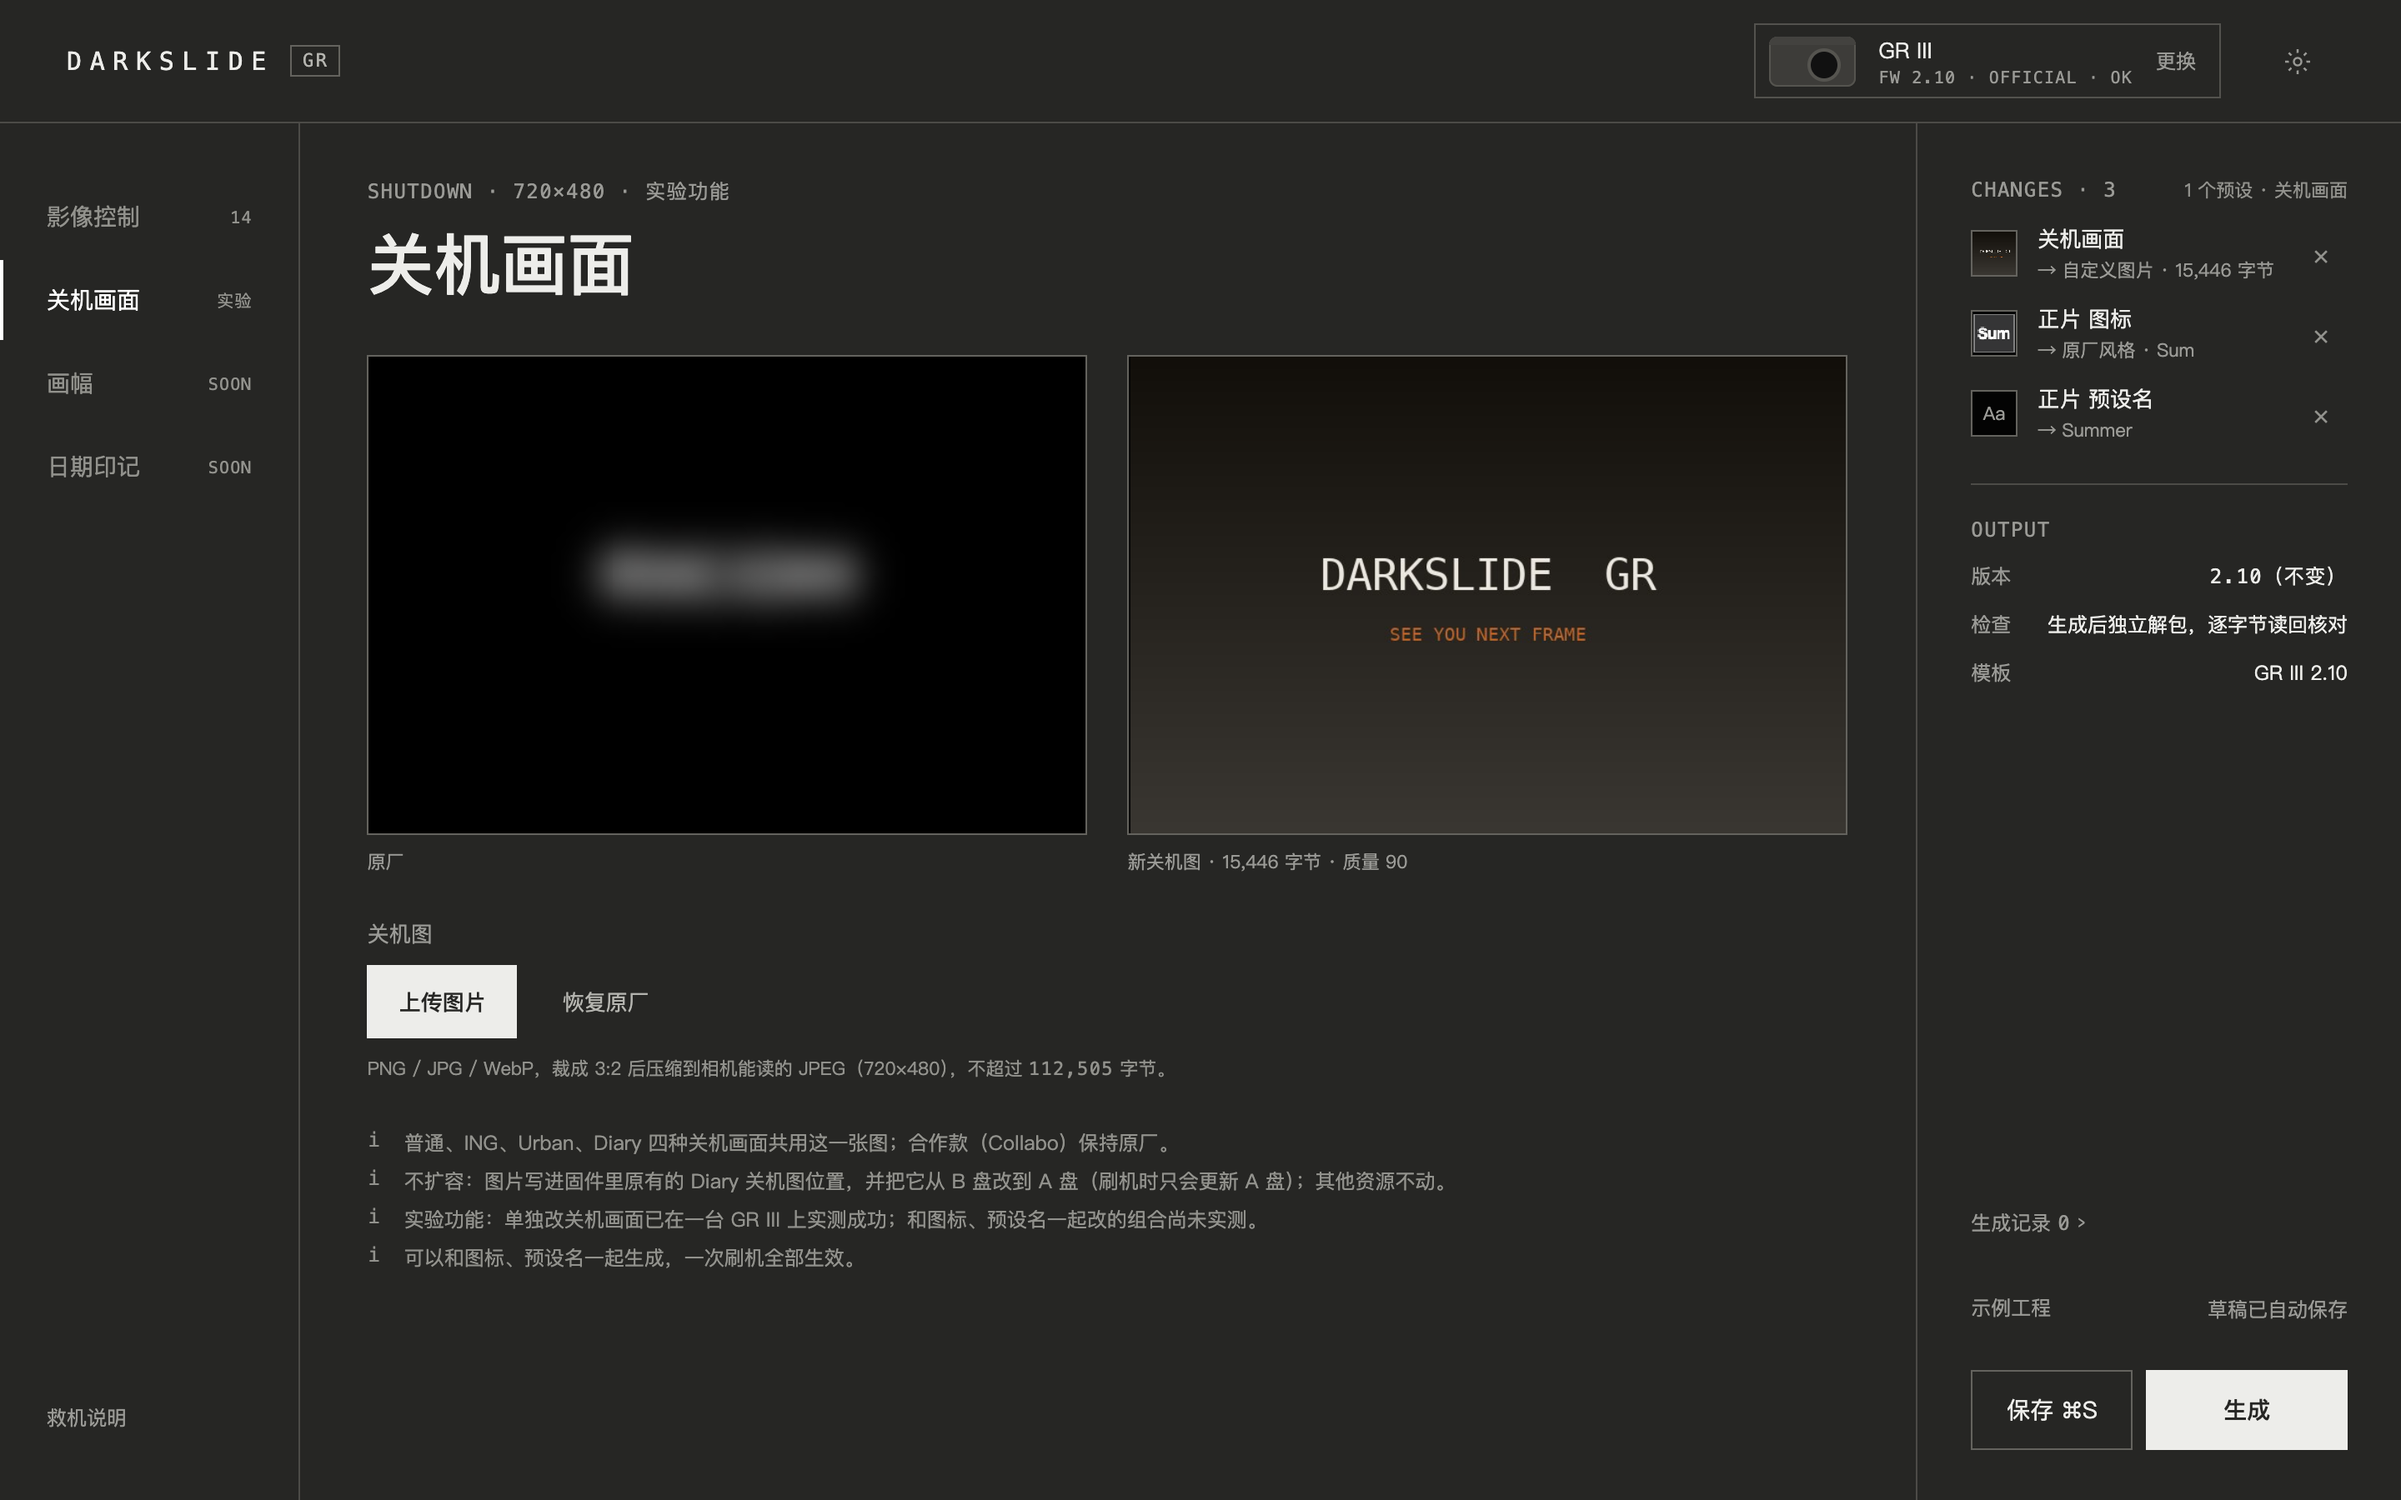
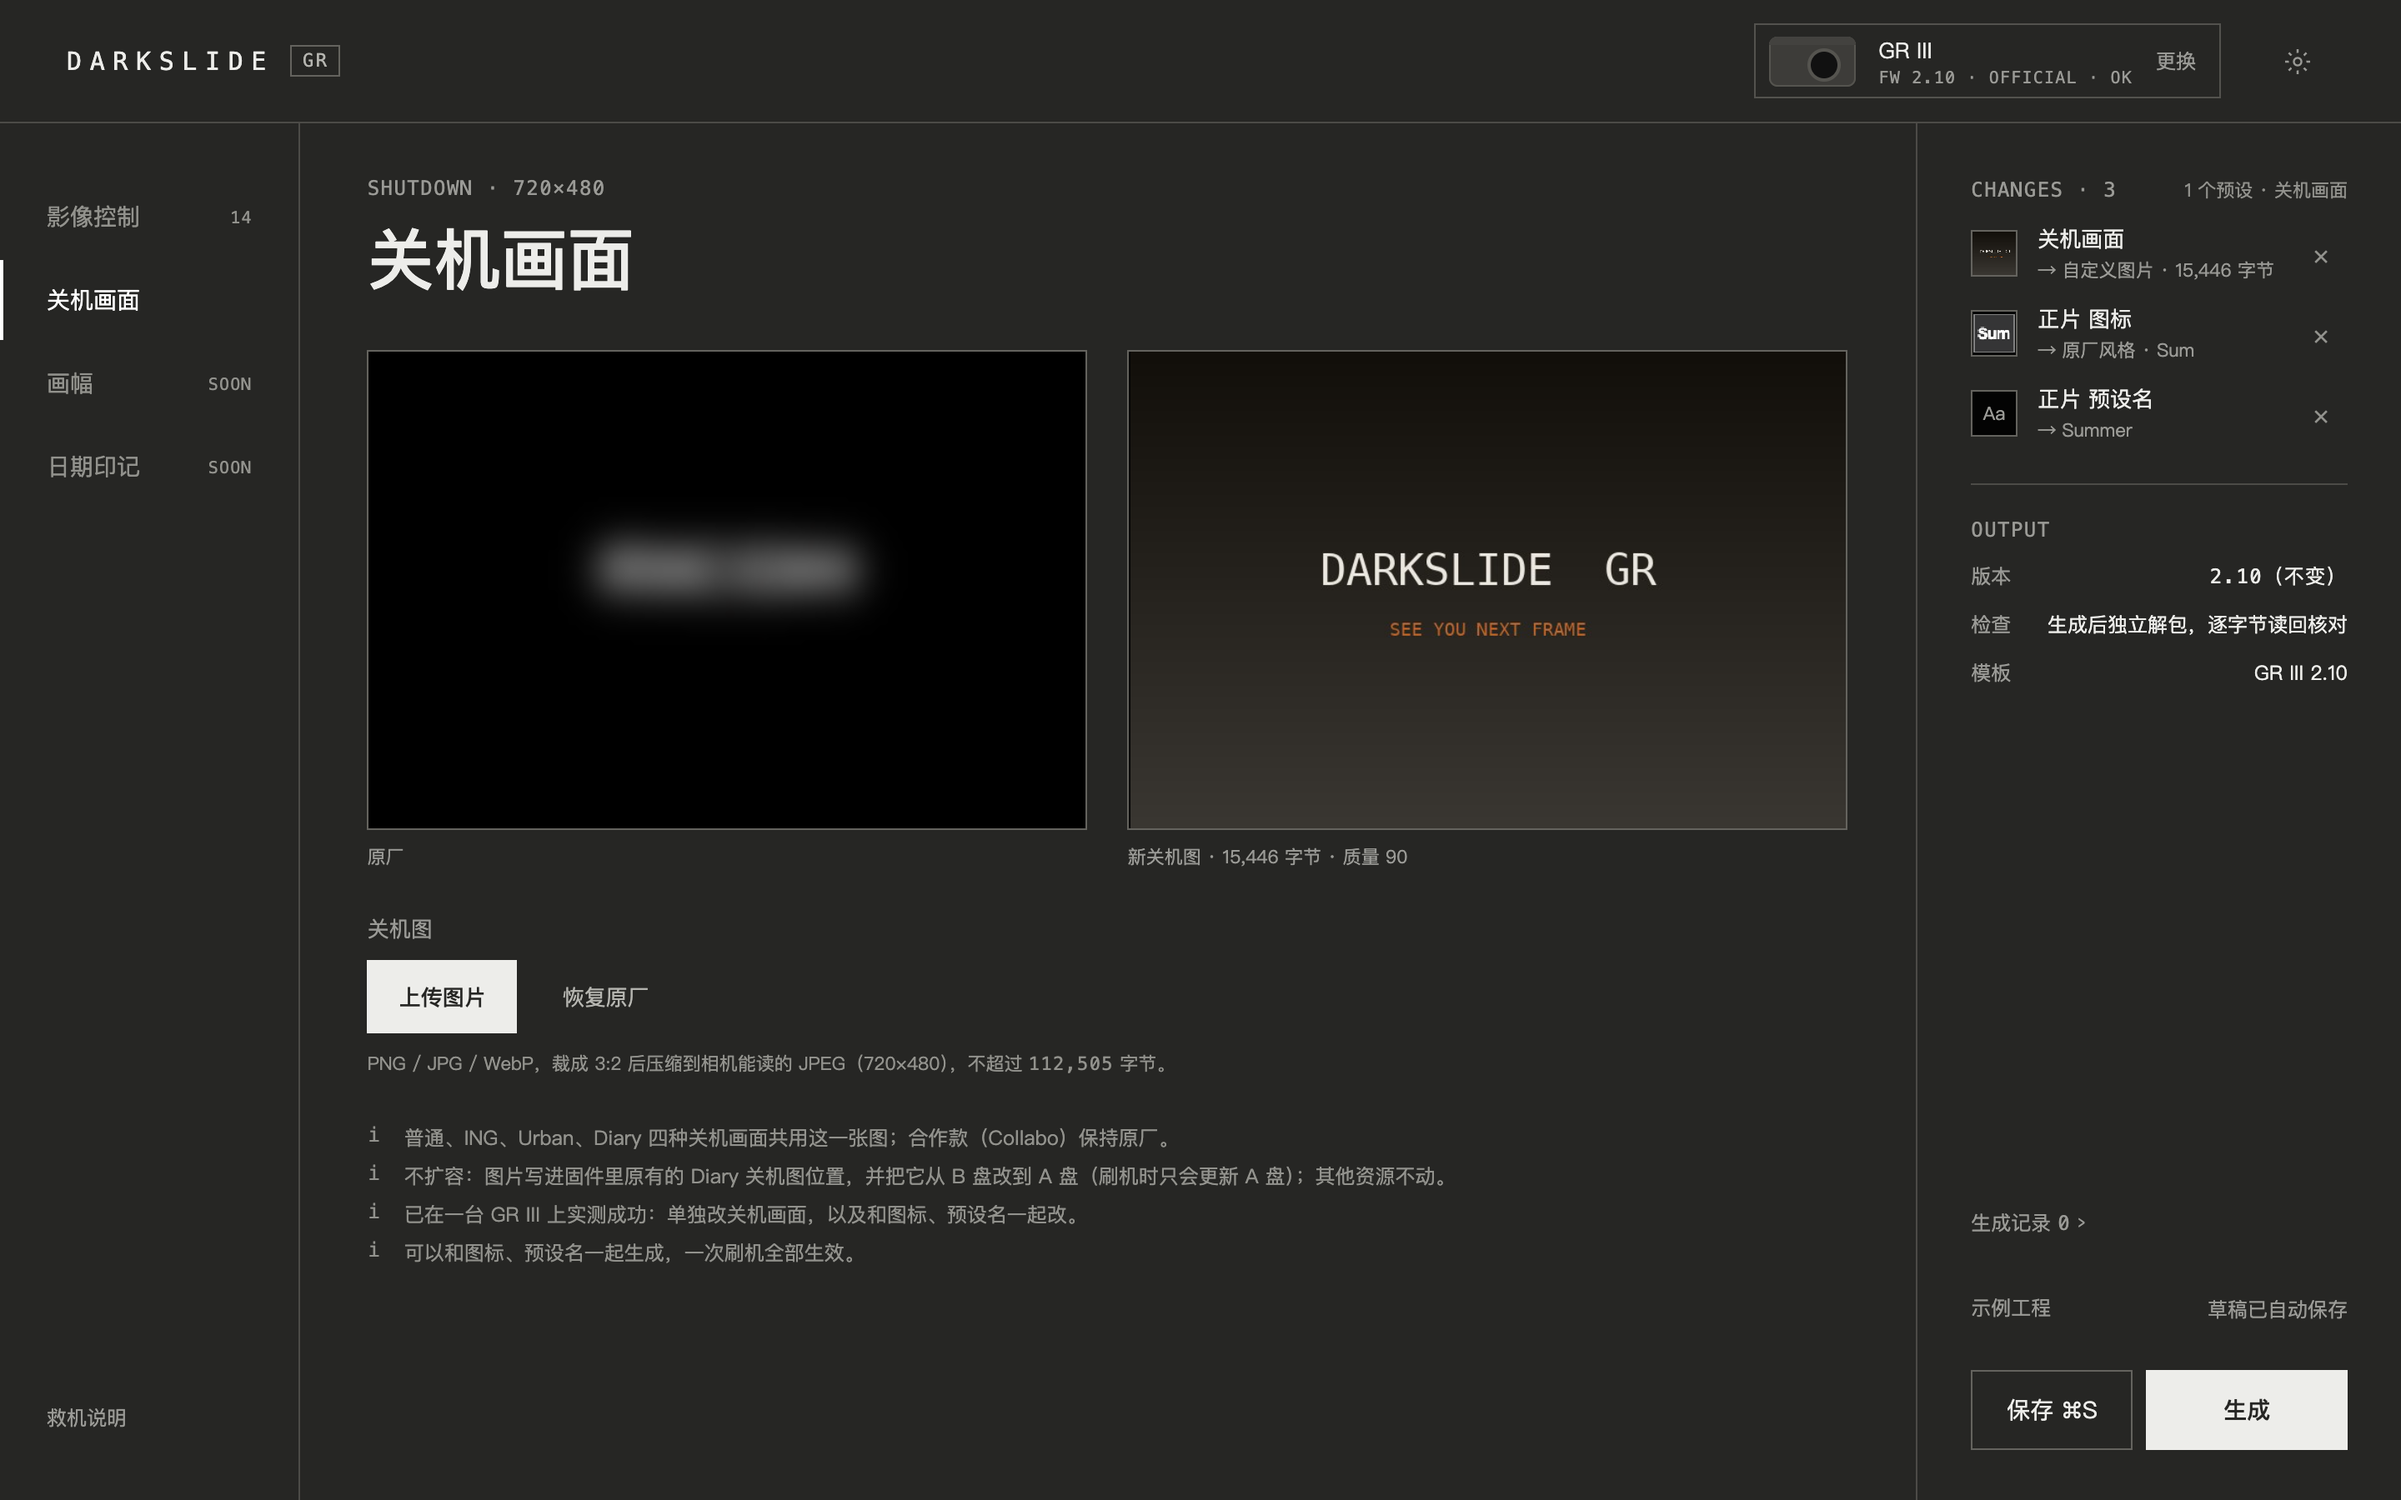
Darkslide GR 0.2.1
The shutdown screen is no longer experimental: icons, preset names and the
shutdown screen built together have been tested on a GR III. See CHANGELOG.md.

diff --git a/web/app.js b/web/app.js
@@ -655,8 +655,8 @@ function showResult(ok, data) {
   const rows = ok
     ? [["工程", data.project_title], ["改动", data.summary.map((x) => x.preset + " " + x.what + " → " + x.value).join("；")],
        ["版本", "2.10（不变）"], ["SHA-256", data.output_sha256],
-       ["验证", data.feature === "composite" ? "离线核对通过 · 图标/预设名与关机画面一起改的组合尚未实测"
-               : data.feature === "shutdown" ? "离线核对通过 · 实验功能" : "离线核对通过"]]
+       ["验证", data.feature === "composite" ? "离线核对通过 · 同类组合已在一台 GR III 上实测"
+               : data.feature === "shutdown" ? "离线核对通过 · 已在一台 GR III 上实测" : "离线核对通过"]]
     : [["工程", state.project.title], ["模板", state.template.reviewed ? state.template.model + " " + state.template.firmware : "不可用"]];
   $("doneTable").replaceChildren(...rows.flatMap(([k, v]) => [el("dt", { text: k }), el("dd", { class: k === "SHA-256" ? "mono sha" : "", text: v })]));
   $("doneChecks").replaceChildren(...(data.checks || []).map((c) => el("li", { class: c.ok ? "" : "bad" }, [
@@ -711,7 +711,7 @@ function renderShutdown() {
   $("sdNotes").replaceChildren(
     note("普通、ING、Urban、Diary 四种关机画面共用这一张图；合作款（Collabo）保持原厂。"),
     note("不扩容：图片写进固件里原有的 Diary 关机图位置，并把它从 B 盘改到 A 盘（刷机时只会更新 A 盘）；其他资源不动。"),
-    note("实验功能：单独改关机画面已在一台 GR III 上实测成功；和图标、预设名一起改的组合尚未实测。"),
+    note("已在一台 GR III 上实测成功：单独改关机画面，以及和图标、预设名一起改。"),
     note("可以和图标、预设名一起生成，一次刷机全部生效。"),
   );
 }

diff --git a/web/index.html b/web/index.html
@@ -49,7 +49,7 @@
   <div class="work">
     <aside class="features" aria-label="功能">
       <button class="feature on" id="featIC">影像控制<span class="mono dim">14</span></button>
-      <button class="feature" id="featShutdown">关机画面<span class="mono dim">实验</span></button>
+      <button class="feature" id="featShutdown">关机画面</button>
       <button class="feature" disabled>画幅<span class="mono">SOON</span></button>
       <button class="feature" disabled>日期印记<span class="mono">SOON</span></button>
       <div class="grow"></div>
@@ -116,7 +116,7 @@
 
       <div id="paneShutdown" class="sd-pane" hidden>
         <div>
-          <div class="mono dim small">SHUTDOWN · 720×480 · 实验功能</div>
+          <div class="mono dim small">SHUTDOWN · 720×480</div>
           <h1 class="sd-title">关机画面</h1>
         </div>
         <div class="sd-screens">

diff --git a/darkslide/generate.py b/darkslide/generate.py
@@ -127,7 +127,7 @@ def run(store, project, template, official_bin):
         container=result["container"], builder=result["builder"], checks=checks,
         skipped=skipped,
         rescue=dict(rescue_gate.RESCUE_NOTE),
-        verification="离线核对通过。图标和预设名、关机画面各自已在 GR III 上实测；三类同时改动的组合尚未实测。刷机风险自负，刷机前请备好官方 2.10 救机卡。",
+        verification="离线核对通过。图标、预设名、关机画面单独改和一起改，都已在一台 GR III 上实测；你填的具体内容未经实测。刷机风险自负，刷机前请备好官方 2.10 救机卡。",
     )
     if jpeg is not None:
         manifest["feature"] = "shutdown" if features == ["shutdown"] else "composite"

diff --git a/darkslide/__init__.py b/darkslide/__init__.py
@@ -1,3 +1,3 @@
 """Darkslide: local preset editor for GR III firmware files."""
 
-VERSION = "0.2.0"
+VERSION = "0.2.1"

diff --git a/README.en.md b/README.en.md
@@ -10,7 +10,7 @@ Give your GR III your own preset icons, preset names and shutdown screen, right 
 > **Flashing modified firmware is risky. Please read this first.**
 >
 > - Your camera may fail to boot, stop working properly, or be **permanently bricked**. You may also lose warranty and official support.
-> - The author has flashed and tested it on **one** GR III (firmware 2.10): icons and preset names, and the shutdown screen on its own, with no problems found. The shutdown screen combined with icons and/or preset names has not been tested on hardware yet. That is a sample of one camera, and your own icons, preset names and pictures have never been on real hardware; all pre-build checks run offline and are no substitute for testing on hardware.
+> - The author has flashed and tested it on **one** GR III (firmware 2.10): icons and preset names, the shutdown screen, and all three together, with no problems found. That is a sample of one camera, and your own icons, preset names and pictures have never been on real hardware; all pre-build checks run offline and are no substitute for testing on hardware.
 > - This project is not affiliated with or endorsed by RICOH. The author accepts no liability for any damage.
 > - What Darkslide produces is a firmware file, nothing more: it **does not talk to your camera or touch your memory card**. Flashing it, and how, is your call.
 >
@@ -48,9 +48,9 @@ Give the presets in your GR III menu **your own icons and names**. For example, 
 - **What it never touches**: colour rendering, image-quality parameters and all other settings stay as they are. The firmware version stays 2.10.
 - **Projects**: drafts are saved automatically; save multiple versions, undo and redo, and pick up where you left off.
 
-**Shutdown screen (experimental)**
+**Shutdown screen**
 
-Upload a picture; it is cropped to 3:2 and converted to a format the camera can read, and the camera shows it when you switch off (except the collaboration style). Only the existing shutdown-image slot in the firmware is replaced; nothing is enlarged. It can be built into the same file as icons and preset names and flashed in one go (this combination has not been tested on hardware yet).
+Upload a picture; it is cropped to 3:2 and converted to a format the camera can read, and the camera shows it when you switch off (except the collaboration style). Only the existing shutdown-image slot in the firmware is replaced; nothing is enlarged. It can be built into the same file as icons and preset names and flashed in one go (this combination has been tested on hardware too).
 
 ![Shutdown screen](docs/images/shutdown.png)
 

diff --git a/README.md b/README.md
@@ -10,7 +10,7 @@
 > **刷入修改版固件有风险，请先读完这一段。**
 >
 > - 刷入后相机可能无法开机、无法正常工作，甚至**永久变砖**；也可能因此失去保修和官方支持。
-> - 作者已在**一台** GR III（固件 2.10）上实机刷入测试：改图标和预设名、单独改关机画面，都未发现问题；关机画面和图标或预设名一起改（任意组合）还没有实测。样本只有一台，你填的图标、预设名和图片也没有在真机上试过；生成前的检查都在电脑上离线完成，不能代替真机测试。
+> - 作者已在**一台** GR III（固件 2.10）上实机刷入测试：改图标和预设名、改关机画面，以及三样一起改，都未发现问题。样本只有一台，你填的图标、预设名和图片也没有在真机上试过；生成前的检查都在电脑上离线完成，不能代替真机测试。
 > - 本项目与理光（RICOH）没有任何关联，也未获得其认可。作者不对任何损失负责。
 > - Darkslide 的产出就是一个固件文件：它**不连接相机，也不碰存储卡**。要不要刷、怎么刷，完全由你决定。
 >
@@ -48,9 +48,9 @@
 - **不会改的**：色彩效果、画质参数和其他设置都保持原样，固件版本仍是 2.10。
 - **工程**：自动保存草稿，可以保存多个版本、撤销重做，下次打开接着改。
 
-**关机画面（实验）**
+**关机画面**
 
-上传一张图片，自动裁成 3:2 并转换成相机能读的格式，关机时显示你的图（合作款样式除外）。只替换固件里原有的关机图位置，不扩容。可以和图标、预设名生成到同一份固件里，一次刷入（这种组合还没有实测）。
+上传一张图片，自动裁成 3:2 并转换成相机能读的格式，关机时显示你的图（合作款样式除外）。只替换固件里原有的关机图位置，不扩容。可以和图标、预设名生成到同一份固件里，一次刷入（这种组合也已实测）。
 
 ![关机画面](docs/images/shutdown.png)
 

diff --git a/CHANGELOG.md b/CHANGELOG.md
@@ -2,6 +2,12 @@
 
 格式参照 [Keep a Changelog](https://keepachangelog.com/zh-CN/1.1.0/)，版本号遵循 [语义化版本](https://semver.org/lang/zh-CN/)。
 
+## [0.2.1] - 2026-10-11
+
+### 变更
+
+- 关机画面不再标「实验」：图标、预设名和关机画面一起改的组合已在一台 GR III 上实测成功。界面标签、生成结果页、构建清单和说明文字相应更新。
+
 ## [0.2.0] - 2026-10-11
 
 界面与 0.1.0 相同。
